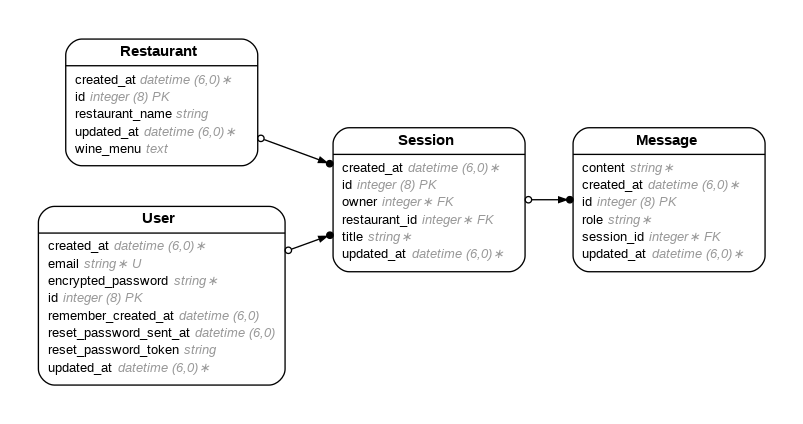
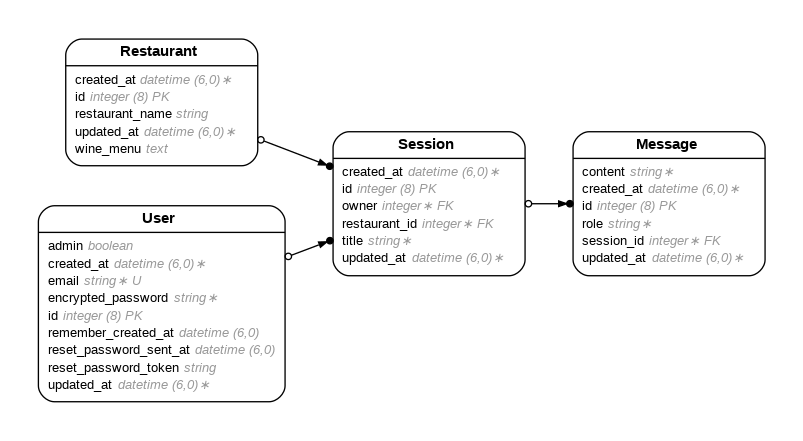
seed an admin user

diff --git a/db/schema.rb b/db/schema.rb
@@ -10,7 +10,7 @@
 #
 # It's strongly recommended that you check this file into your version control system.
 
-ActiveRecord::Schema[7.1].define(version: 2025_05_19_182805) do
+ActiveRecord::Schema[7.1].define(version: 2025_05_22_210917) do
   # These are extensions that must be enabled in order to support this database
   enable_extension "plpgsql"
 
@@ -45,6 +45,7 @@ ActiveRecord::Schema[7.1].define(version: 2025_05_19_182805) do
     t.datetime "remember_created_at"
     t.datetime "created_at", null: false
     t.datetime "updated_at", null: false
+    t.boolean "admin"
     t.index ["email"], name: "index_users_on_email", unique: true
     t.index ["reset_password_token"], name: "index_users_on_reset_password_token", unique: true
   end

diff --git a/db/seeds.rb b/db/seeds.rb
@@ -1,7 +1,8 @@
 # This file should contain all the record creation needed to seed the database with its default values.
 # The data can then be loaded with the bin/rails db:seed command (or created alongside the database with db:setup).
-#
-# Examples:
-#
-#   movies = Movie.create([{ name: "Star Wars" }, { name: "Lord of the Rings" }])
-#   Character.create(name: "Luke", movie: movies.first)
+
+User.create!(
+  email: "nehirmen.98@gmail.com",
+  password: "Cru$Merl0t",
+  admin: true
+)

diff --git a/app/models/user.rb b/app/models/user.rb
@@ -3,6 +3,7 @@
 # Table name: users
 #
 #  id                     :bigint           not null, primary key
+#  admin                  :boolean
 #  email                  :string           default(""), not null
 #  encrypted_password     :string           default(""), not null
 #  remember_created_at    :datetime

diff --git a/db/migrate/20250522210917_add_admin_to_users.rb b/db/migrate/20250522210917_add_admin_to_users.rb
@@ -1,0 +1,5 @@
+class AddAdminToUsers < ActiveRecord::Migration[7.1]
+  def change
+    add_column :users, :admin, :boolean
+  end
+end
